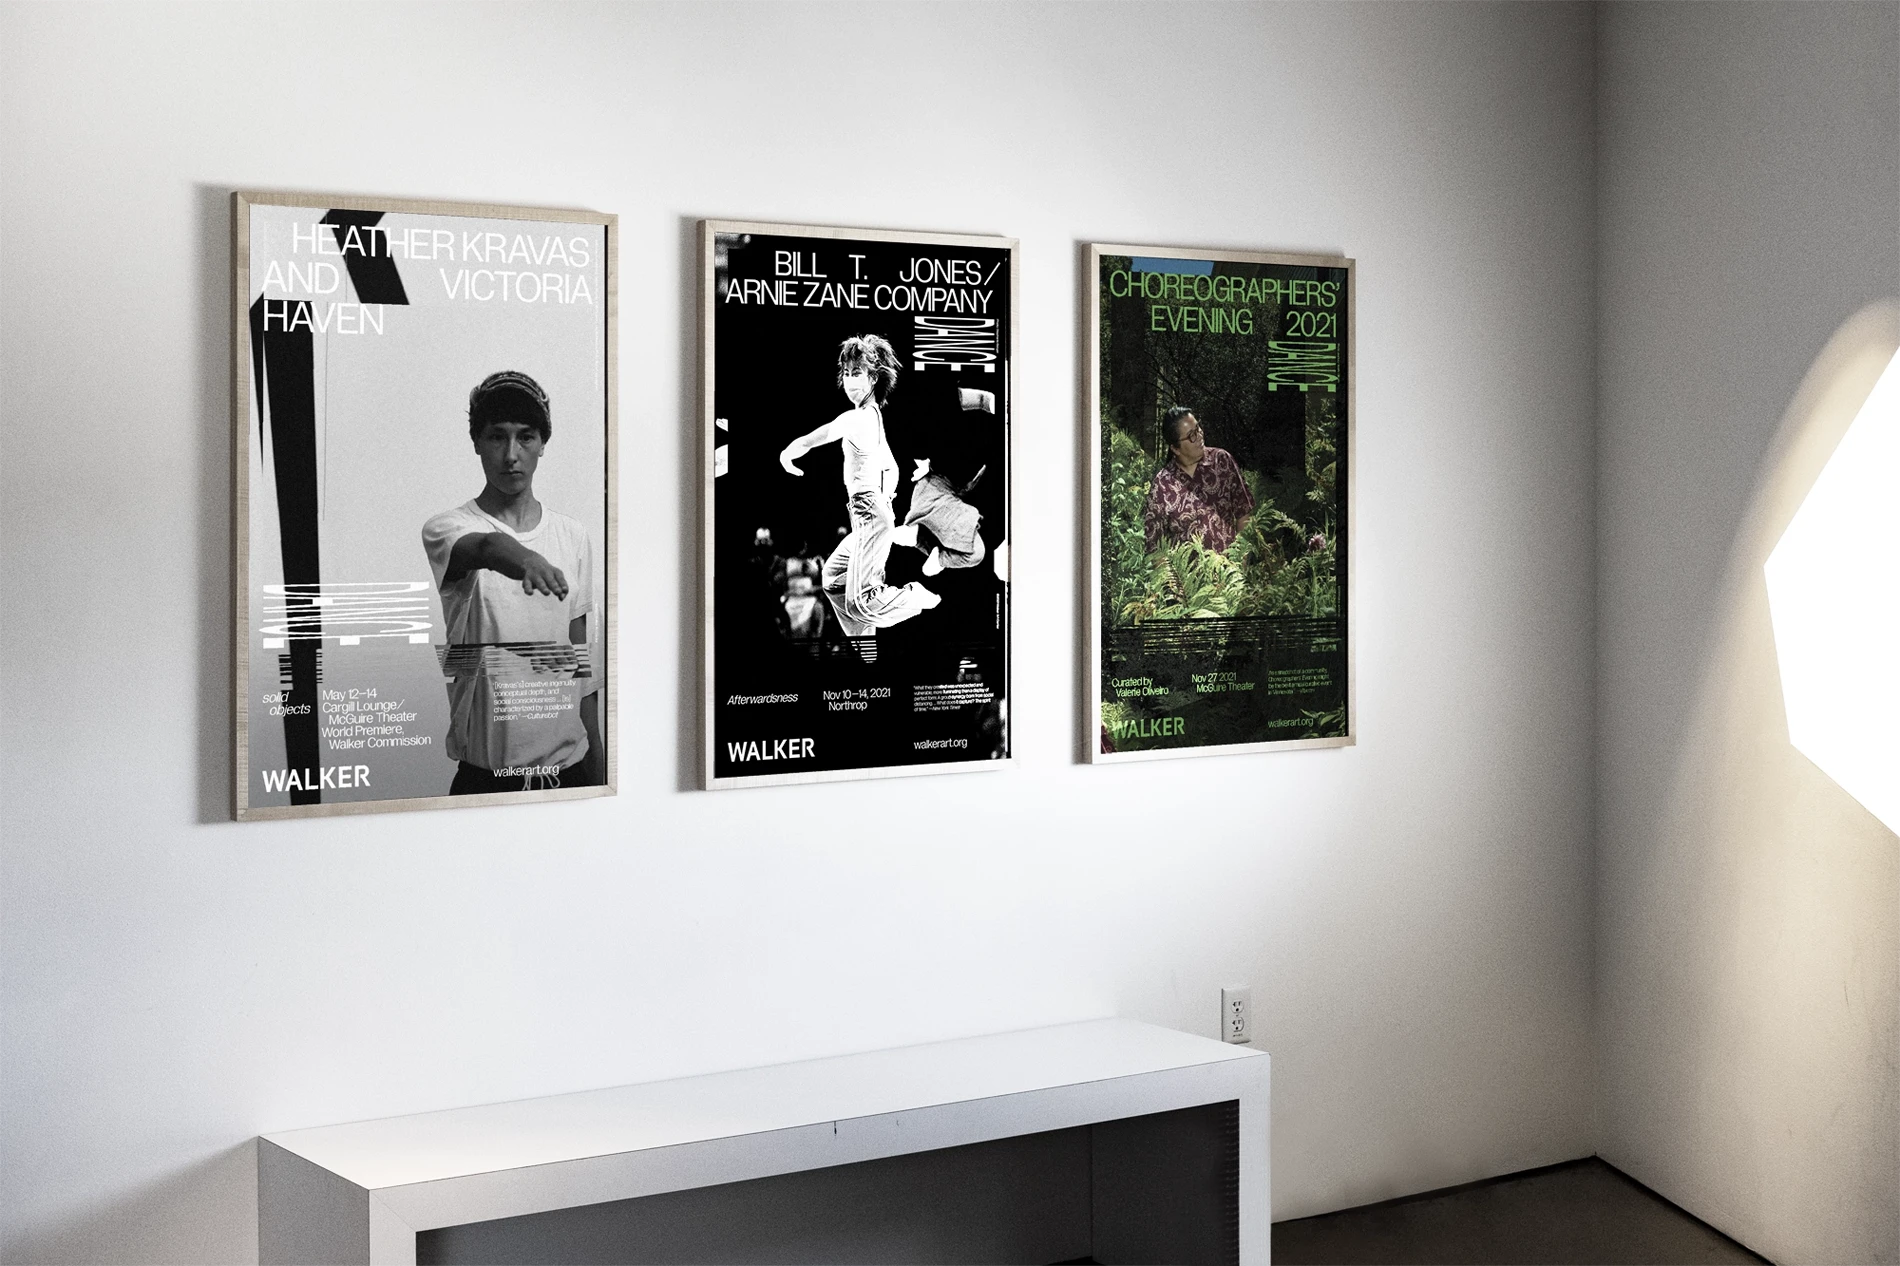
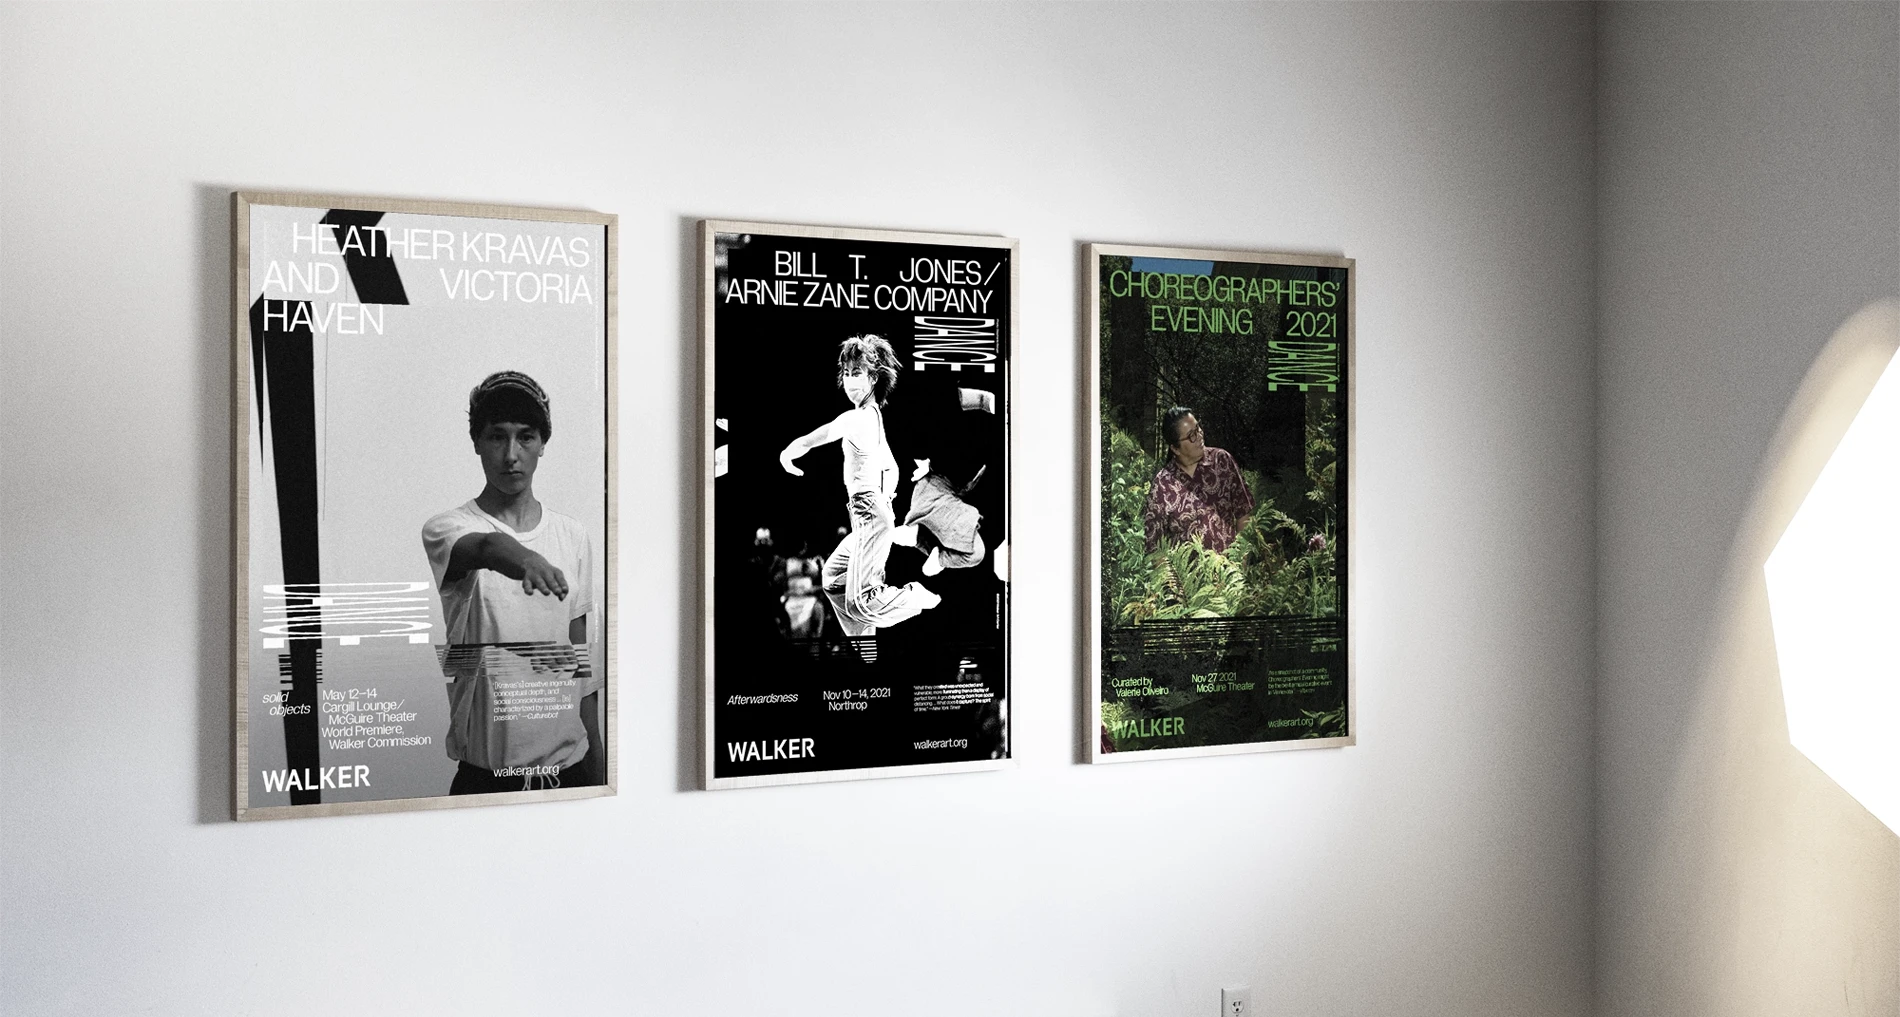
pa updates

diff --git a/index.html b/index.html
@@ -158,7 +158,7 @@
                    </figcaption>
                </figure>
         </div>
-        <div class="swiper-slide IB-cont mix" style="background:url(img/PA-posters.webp); background-position:left;
+        <div class="swiper-slide IB-cont mix" style="background:url(img/PA-posters.webp); background-position:center;
         background-size:cover">
          <figure class="MH-fig">
                 <figcaption class="full-left invt m-type"><em>2021–22 Performing Arts Season</em>, 2021, identity design for Walker Art Center, poster set.
